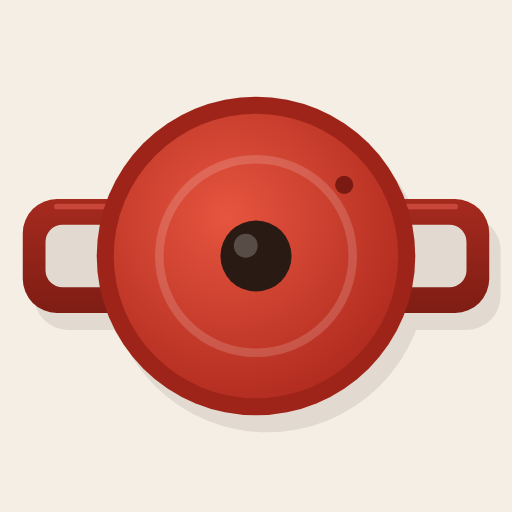
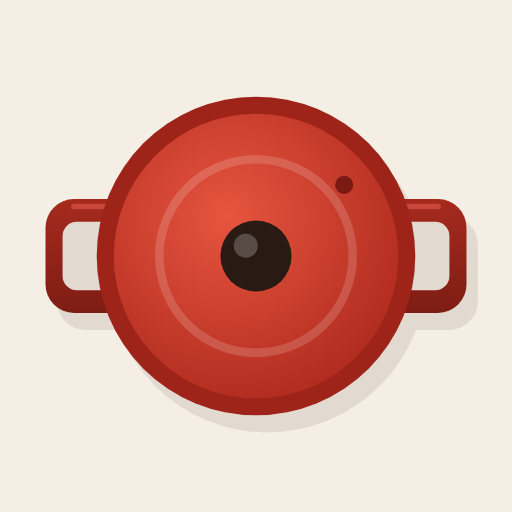
Ícone: alças menos salientes
Claude-Session: https://claude.ai/code/session_01Aq91o1pQEkGChmfbNb7JC9

diff --git a/sw.js b/sw.js
@@ -1,6 +1,6 @@
 // Receitas: funciona offline. Página sempre busca a versão nova primeiro;
 // sem internet, usa a cópia salva.
-const CACHE = 'receitas-v5';
+const CACHE = 'receitas-v6';
 const FILES = ['./', './index.html', './manifest.webmanifest', './icon-180.png', './icon-512.png'];
 
 self.addEventListener('install', e => {
